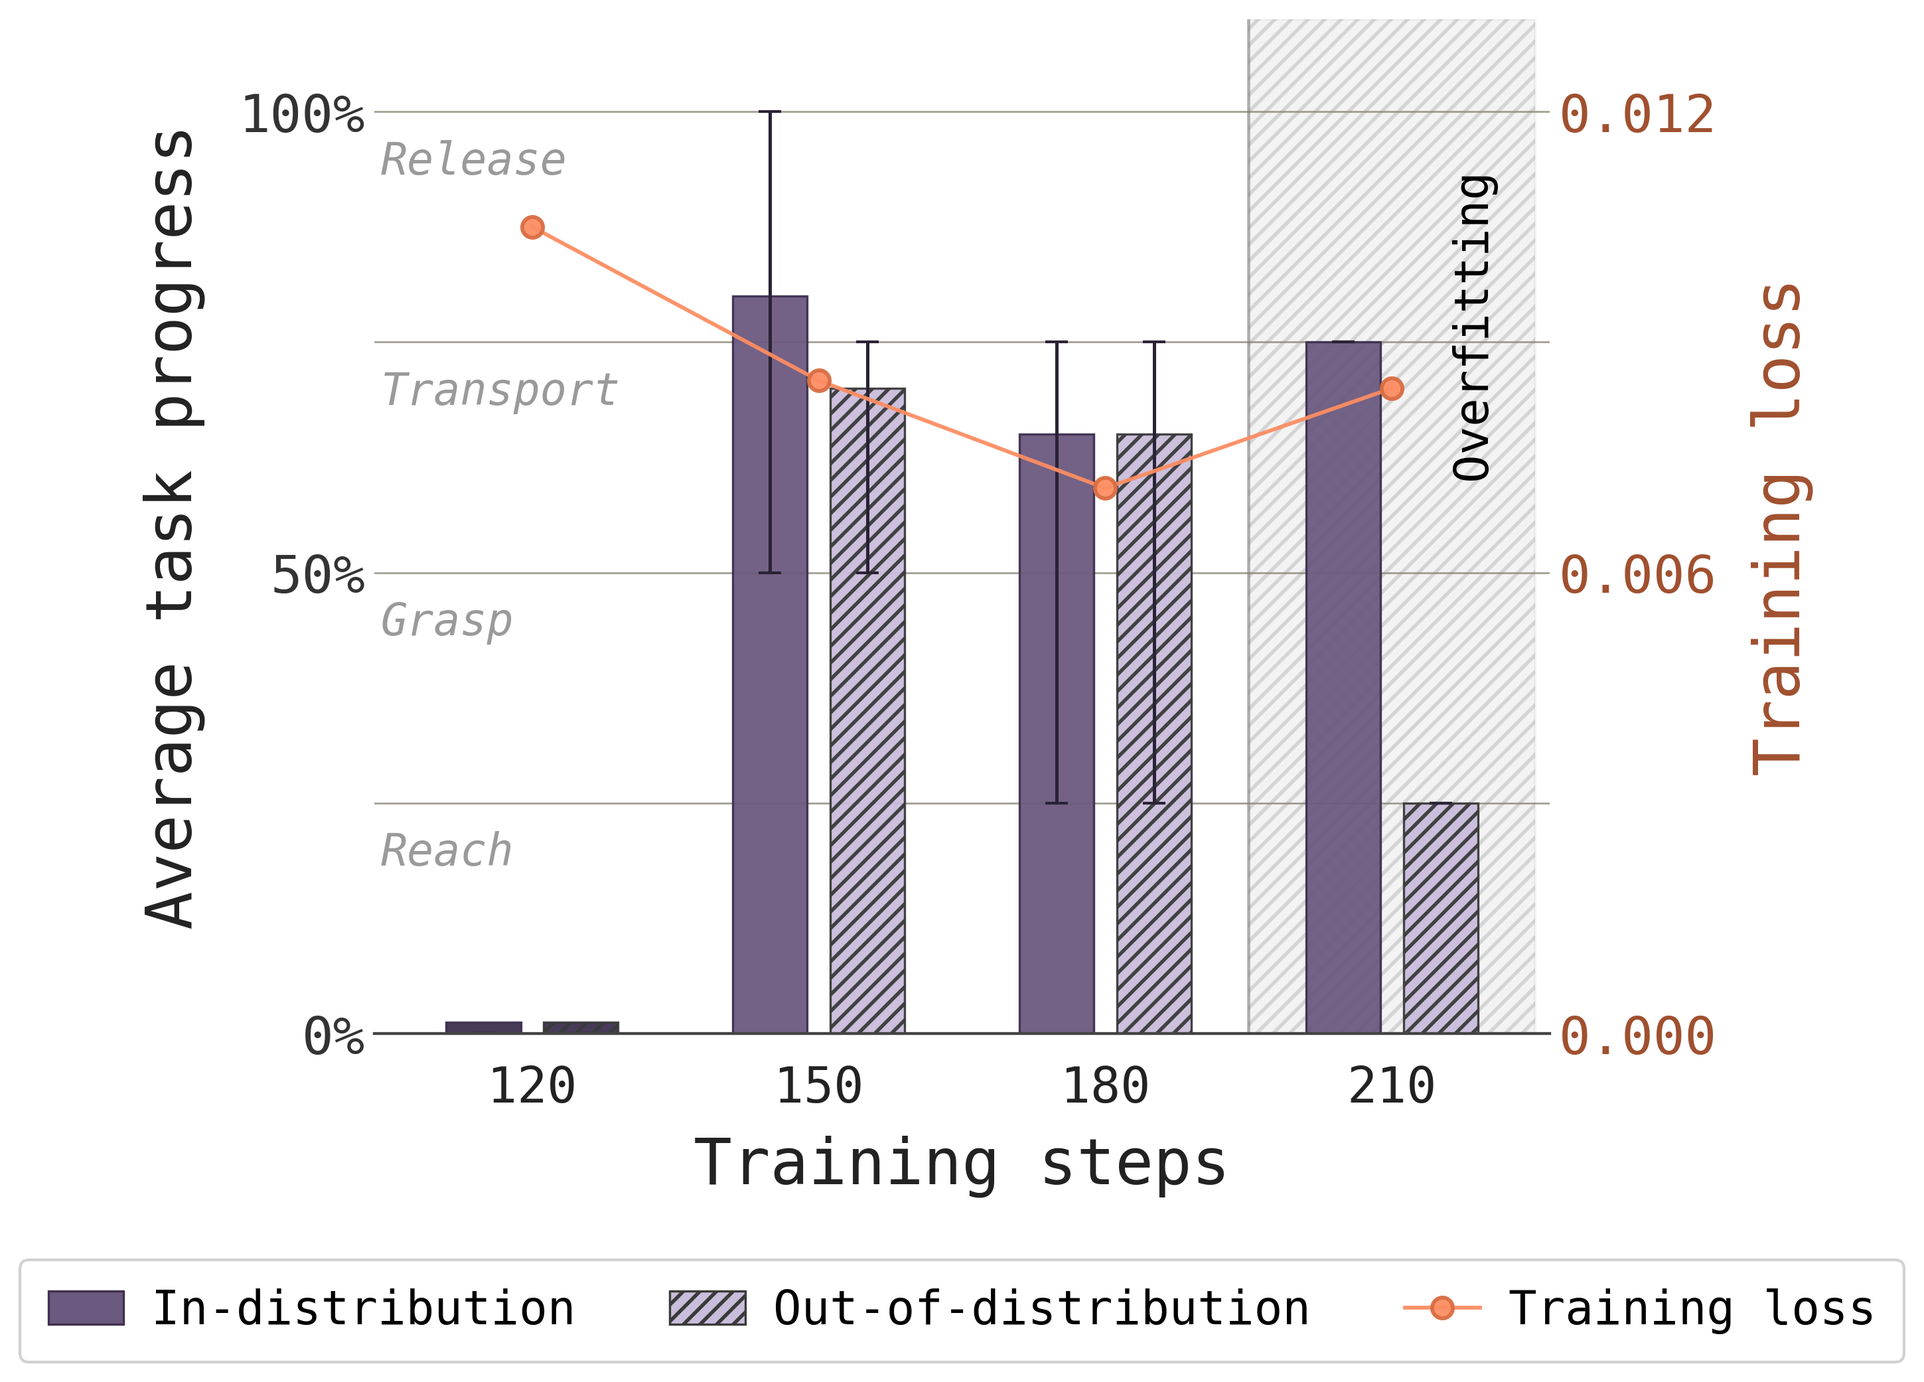
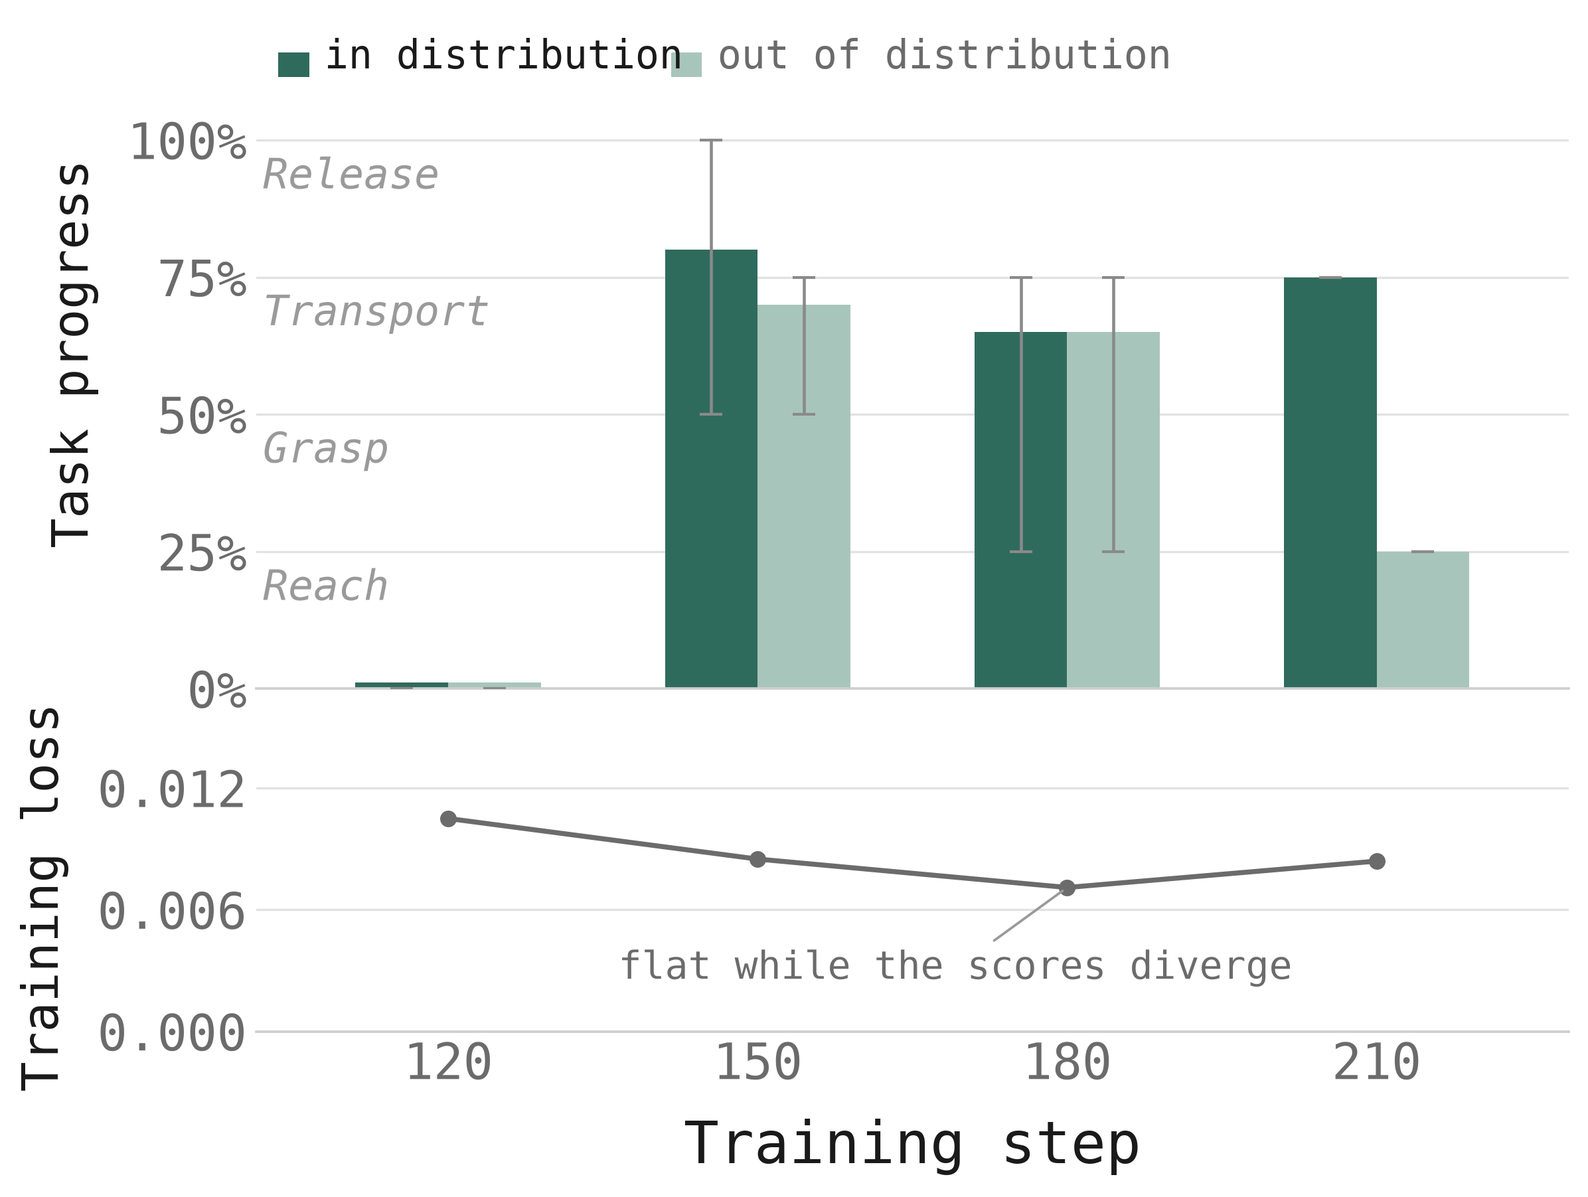
Tufte pass over the data graphics
eval_id_vs_ood had a dual y-axis putting training loss against task progress.
That is the one chart type the section argues against: the whole point is that
the loss does not track the score, and a shared frame invites the correlation
reading. Split into two panels on one x axis, the hatched overfit span replaced
by a plain annotation, and the boxed legend replaced by a key beside the data.

eval_horizon and eval_dataset_size gave every bar its own colour where colour
encoded nothing the x axis did not already say. Now gray for context and the
single article accent for the focal bar, so the eye goes to the result rather
than around the rainbow.

The issue-topic chart loses its detached legend: the three categories are
named above the segments they name, in those segments' colours, and the
percentage scale moves to the bottom. Also drops the outline on the 'nobody'
segment and lightens gridlines throughout.

Chart data is unchanged and still comes from ur5/docs/final_evaluations.md;
the regeneration script is checked in as ur5/charts_tufte.py.

diff --git a/index.html b/index.html
@@ -203,13 +203,16 @@ figure svg{display:block;width:100%;height:auto;overflow:visible;color:var(--ink
 .cline.accent{stroke:var(--accent);stroke-width:2.4}
 .cdot{fill:var(--accent)}
 .cl{font-family:var(--mono);font-size:9.5px;fill:currentColor;opacity:.62}
+.lbl-staff{fill:var(--accent);opacity:1;font-weight:700}
+.lbl-users{fill:#5c7a9c;opacity:1;font-weight:700}
+.lbl-none{fill:#8f8f8f;opacity:1;font-weight:700}
 .cl.faint{opacity:.4}
 .cv{font-family:var(--mono);font-size:10px;font-weight:600;fill:currentColor}
 .cv.accent{fill:var(--accent)}
 .ct{font-family:var(--mono);font-size:10px;font-weight:700;fill:currentColor;letter-spacing:.06em}
 .seg-staff{fill:var(--accent)}
 .seg-users{fill:#93a7c4}
-.seg-none{fill:#e6e6e6;stroke:#d2d2d2;stroke-width:.7}
+.seg-none{fill:#ececec}
 @media (max-width:34rem){.smallmult{grid-template-columns:1fr;gap:1.6rem}}
 
 
@@ -523,7 +526,7 @@ footer cite{font-style:italic}
     <p>The more interesting column is the middle one. On openpi, <b>32% of issues are answered only by other users</b>, with nobody from the project involved. I read 128 answered threads closely, staff-answered and user-answered alike, and graded the best reply in each: 55% contained a concrete fix or explanation that would plausibly unblock the reporter, another 29% a workaround or useful pointer. Independent users supplied that best answer in roughly 2 cases out of 5.</p>
 
     <figure class="wide">
-      <svg class="chartanim" viewBox="0 0 680 442" role="img" aria-label="Who answers an openpi issue, by topic"><line x1="311.5" y1="24" x2="311.5" y2="402" class="cgrid"/><text x="311.5" y="16" class="cl" text-anchor="middle">25%</text><line x1="417.0" y1="24" x2="417.0" y2="402" class="cgrid"/><text x="417.0" y="16" class="cl" text-anchor="middle">50%</text><line x1="522.5" y1="24" x2="522.5" y2="402" class="cgrid"/><text x="522.5" y="16" class="cl" text-anchor="middle">75%</text><line x1="628.0" y1="24" x2="628.0" y2="402" class="cgrid"/><text x="628.0" y="16" class="cl" text-anchor="middle">100%</text><text x="197" y="54" class="cl" text-anchor="end">Robot integration</text><g class="growx" style="--d:0.000s"><rect x="206.0" y="45" width="253.2" height="13" class="seg-staff"/><rect x="459.2" y="45" width="96.5" height="13" class="seg-users"/><rect x="555.7" y="45" width="72.3" height="13" class="seg-none"/></g><text x="676" y="55" class="cl faint" text-anchor="end">n=35</text><text x="197" y="88" class="cl" text-anchor="end">Training errors</text><g class="growx" style="--d:0.055s"><rect x="206.0" y="79" width="162.3" height="13" class="seg-staff"/><rect x="368.3" y="79" width="183.9" height="13" class="seg-users"/><rect x="552.3" y="79" width="75.7" height="13" class="seg-none"/></g><text x="676" y="89" class="cl faint" text-anchor="end">n=39</text><text x="197" y="122" class="cl" text-anchor="end">Deployment errors</text><g class="growx" style="--d:0.110s"><rect x="206.0" y="113" width="223.4" height="13" class="seg-staff"/><rect x="429.4" y="113" width="111.7" height="13" class="seg-users"/><rect x="541.1" y="113" width="86.9" height="13" class="seg-none"/></g><text x="676" y="123" class="cl faint" text-anchor="end">n=34</text><text x="197" y="156" class="cl" text-anchor="end">Data conversion</text><g class="growx" style="--d:0.165s"><rect x="206.0" y="147" width="135.4" height="13" class="seg-staff"/><rect x="341.4" y="147" width="199.1" height="13" class="seg-users"/><rect x="540.4" y="147" width="87.6" height="13" class="seg-none"/></g><text x="676" y="157" class="cl faint" text-anchor="end">n=53</text><text x="197" y="190" class="cl" text-anchor="end">Model behaviour</text><g class="growx" style="--d:0.220s"><rect x="206.0" y="181" width="154.4" height="13" class="seg-staff"/><rect x="360.4" y="181" width="175.0" height="13" class="seg-users"/><rect x="535.4" y="181" width="92.6" height="13" class="seg-none"/></g><text x="676" y="191" class="cl faint" text-anchor="end">n=41</text><text x="197" y="224" class="cl" text-anchor="end">JAX/PyTorch convert</text><g class="growx" style="--d:0.275s"><rect x="206.0" y="215" width="32.5" height="13" class="seg-staff"/><rect x="238.5" y="215" width="292.2" height="13" class="seg-users"/><rect x="530.6" y="215" width="97.4" height="13" class="seg-none"/></g><text x="676" y="225" class="cl faint" text-anchor="end">n=13</text><text x="197" y="258" class="cl" text-anchor="end">Install / environment</text><g class="growx" style="--d:0.330s"><rect x="206.0" y="249" width="178.2" height="13" class="seg-staff"/><rect x="384.2" y="249" width="131.3" height="13" class="seg-users"/><rect x="515.5" y="249" width="112.5" height="13" class="seg-none"/></g><text x="676" y="259" class="cl faint" text-anchor="end">n=45</text><text x="197" y="292" class="cl" text-anchor="end">Training how-to</text><g class="growx" style="--d:0.385s"><rect x="206.0" y="283" width="194.8" height="13" class="seg-staff"/><rect x="400.8" y="283" width="113.6" height="13" class="seg-users"/><rect x="514.4" y="283" width="113.6" height="13" class="seg-none"/></g><text x="676" y="293" class="cl faint" text-anchor="end">n=52</text><text x="197" y="326" class="cl" text-anchor="end">Checkpoint release</text><g class="growx" style="--d:0.440s"><rect x="206.0" y="317" width="257.9" height="13" class="seg-staff"/><rect x="463.9" y="317" width="46.9" height="13" class="seg-users"/><rect x="510.8" y="317" width="117.2" height="13" class="seg-none"/></g><text x="676" y="327" class="cl faint" text-anchor="end">n=18</text><text x="197" y="360" class="cl" text-anchor="end">Conceptual question</text><g class="growx" style="--d:0.495s"><rect x="206.0" y="351" width="135.0" height="13" class="seg-staff"/><rect x="341.0" y="351" width="126.6" height="13" class="seg-users"/><rect x="467.6" y="351" width="160.4" height="13" class="seg-none"/></g><text x="676" y="361" class="cl faint" text-anchor="end">n=50</text><text x="197" y="394" class="cl" text-anchor="end">Feature request</text><g class="growx" style="--d:0.550s"><rect x="206.0" y="385" width="28.1" height="13" class="seg-staff"/><rect x="234.1" y="385" width="140.7" height="13" class="seg-users"/><rect x="374.8" y="385" width="253.2" height="13" class="seg-none"/></g><text x="676" y="395" class="cl faint" text-anchor="end">n=15</text><rect x="14" y="415" width="11" height="11" class="seg-staff"/><text x="30" y="424" class="cl">from the project</text><rect x="250" y="415" width="11" height="11" class="seg-users"/><text x="266" y="424" class="cl">only other users</text><rect x="486" y="415" width="11" height="11" class="seg-none"/><text x="502" y="424" class="cl">nobody</text></svg>
+      <svg class="chartanim" viewBox="0 0 680 430" role="img" aria-label="Who answers an openpi issue, by topic"><line x1="311.5" y1="22" x2="311.5" y2="398" class="cgrid"/><text x="311.5" y="416" class="cl" text-anchor="middle">25%</text><line x1="417.0" y1="22" x2="417.0" y2="398" class="cgrid"/><text x="417.0" y="416" class="cl" text-anchor="middle">50%</text><line x1="522.5" y1="22" x2="522.5" y2="398" class="cgrid"/><text x="522.5" y="416" class="cl" text-anchor="middle">75%</text><line x1="628.0" y1="22" x2="628.0" y2="398" class="cgrid"/><text x="628.0" y="416" class="cl" text-anchor="middle">100%</text><text x="332.6" y="16" class="cl lbl-staff" text-anchor="middle">the project</text><text x="507.4" y="16" class="cl lbl-users" text-anchor="middle">other users</text><text x="591.8" y="16" class="cl lbl-none" text-anchor="middle">nobody</text><text x="197" y="50" class="cl" text-anchor="end">Robot integration</text><g class="growx" style="--d:0.000s"><rect x="206.0" y="41" width="253.2" height="13" class="seg-staff"/><rect x="459.2" y="41" width="96.5" height="13" class="seg-users"/><rect x="555.7" y="41" width="72.3" height="13" class="seg-none"/></g><text x="676" y="51" class="cl faint" text-anchor="end">n=35</text><text x="197" y="84" class="cl" text-anchor="end">Training errors</text><g class="growx" style="--d:0.055s"><rect x="206.0" y="75" width="162.3" height="13" class="seg-staff"/><rect x="368.3" y="75" width="183.9" height="13" class="seg-users"/><rect x="552.3" y="75" width="75.7" height="13" class="seg-none"/></g><text x="676" y="85" class="cl faint" text-anchor="end">n=39</text><text x="197" y="118" class="cl" text-anchor="end">Deployment errors</text><g class="growx" style="--d:0.110s"><rect x="206.0" y="109" width="223.4" height="13" class="seg-staff"/><rect x="429.4" y="109" width="111.7" height="13" class="seg-users"/><rect x="541.1" y="109" width="86.9" height="13" class="seg-none"/></g><text x="676" y="119" class="cl faint" text-anchor="end">n=34</text><text x="197" y="152" class="cl" text-anchor="end">Data conversion</text><g class="growx" style="--d:0.165s"><rect x="206.0" y="143" width="135.4" height="13" class="seg-staff"/><rect x="341.4" y="143" width="199.1" height="13" class="seg-users"/><rect x="540.4" y="143" width="87.6" height="13" class="seg-none"/></g><text x="676" y="153" class="cl faint" text-anchor="end">n=53</text><text x="197" y="186" class="cl" text-anchor="end">Model behaviour</text><g class="growx" style="--d:0.220s"><rect x="206.0" y="177" width="154.4" height="13" class="seg-staff"/><rect x="360.4" y="177" width="175.0" height="13" class="seg-users"/><rect x="535.4" y="177" width="92.6" height="13" class="seg-none"/></g><text x="676" y="187" class="cl faint" text-anchor="end">n=41</text><text x="197" y="220" class="cl" text-anchor="end">JAX/PyTorch convert</text><g class="growx" style="--d:0.275s"><rect x="206.0" y="211" width="32.5" height="13" class="seg-staff"/><rect x="238.5" y="211" width="292.2" height="13" class="seg-users"/><rect x="530.6" y="211" width="97.4" height="13" class="seg-none"/></g><text x="676" y="221" class="cl faint" text-anchor="end">n=13</text><text x="197" y="254" class="cl" text-anchor="end">Install / environment</text><g class="growx" style="--d:0.330s"><rect x="206.0" y="245" width="178.2" height="13" class="seg-staff"/><rect x="384.2" y="245" width="131.3" height="13" class="seg-users"/><rect x="515.5" y="245" width="112.5" height="13" class="seg-none"/></g><text x="676" y="255" class="cl faint" text-anchor="end">n=45</text><text x="197" y="288" class="cl" text-anchor="end">Training how-to</text><g class="growx" style="--d:0.385s"><rect x="206.0" y="279" width="194.8" height="13" class="seg-staff"/><rect x="400.8" y="279" width="113.6" height="13" class="seg-users"/><rect x="514.4" y="279" width="113.6" height="13" class="seg-none"/></g><text x="676" y="289" class="cl faint" text-anchor="end">n=52</text><text x="197" y="322" class="cl" text-anchor="end">Checkpoint release</text><g class="growx" style="--d:0.440s"><rect x="206.0" y="313" width="257.9" height="13" class="seg-staff"/><rect x="463.9" y="313" width="46.9" height="13" class="seg-users"/><rect x="510.8" y="313" width="117.2" height="13" class="seg-none"/></g><text x="676" y="323" class="cl faint" text-anchor="end">n=18</text><text x="197" y="356" class="cl" text-anchor="end">Conceptual question</text><g class="growx" style="--d:0.495s"><rect x="206.0" y="347" width="135.0" height="13" class="seg-staff"/><rect x="341.0" y="347" width="126.6" height="13" class="seg-users"/><rect x="467.6" y="347" width="160.4" height="13" class="seg-none"/></g><text x="676" y="357" class="cl faint" text-anchor="end">n=50</text><text x="197" y="390" class="cl" text-anchor="end">Feature request</text><g class="growx" style="--d:0.550s"><rect x="206.0" y="381" width="28.1" height="13" class="seg-staff"/><rect x="234.1" y="381" width="140.7" height="13" class="seg-users"/><rect x="374.8" y="381" width="253.2" height="13" class="seg-none"/></g><text x="676" y="391" class="cl faint" text-anchor="end">n=15</text></svg>
       <figcaption><b>Issues with a reproducible error get answered. Conceptual questions and feature requests do not.</b> Classified by reading each issue; 395 of 490 could be classified.</figcaption>
     </figure>
 

diff --git a/ur5/charts_tufte.py b/ur5/charts_tufte.py
@@ -1,0 +1,161 @@
+"""Tufte pass over the four evaluation charts.
+
+Data is copied verbatim from the recovered eval_charts.ipynb, which sources it
+from ur5/docs/final_evaluations.md. No value is changed here; only the display.
+
+What changes, and why:
+  - decorative per-bar palettes -> gray for context, one accent for the focal bar
+  - dual y-axis on the ID/OOD chart -> two stacked panels sharing an x axis
+  - hatched fills (moire) -> flat tints
+  - boxed legends away from the data -> labels sitting on the data
+  - heavy olive gridlines -> faint gray, behind everything
+  - bar outlines -> none
+"""
+import matplotlib
+matplotlib.use('Agg')
+import matplotlib.pyplot as plt
+import matplotlib.ticker as mticker
+import numpy as np
+
+OUT = '/home/lps/openpi/ur5/docs/figures'
+
+INK      = '#1a1a1a'
+MUTED    = '#6b6b6b'
+QUIET    = '#9a9a9a'
+GRID     = '#e2e2e2'
+CONTEXT  = '#c4c4c4'   # bars that are not the point
+ACCENT   = '#2f6b5c'   # the article's single accent
+ACCENT_L = '#a8c5bc'   # accent, de-emphasised (second series)
+
+plt.rcParams.update({
+    'font.family': 'monospace',
+    'font.monospace': ['DejaVu Sans Mono', 'Courier New'],
+    'font.size': 18, 'axes.labelsize': 21,
+    'xtick.labelsize': 18, 'ytick.labelsize': 18,
+    'figure.dpi': 150, 'savefig.dpi': 300,
+    'axes.edgecolor': '#cfcfcf', 'axes.linewidth': 0.9,
+    'xtick.color': MUTED, 'ytick.color': MUTED, 'axes.labelcolor': INK,
+    'figure.facecolor': 'white', 'axes.facecolor': 'white',
+    'savefig.facecolor': 'white',
+})
+
+STAGES = ['Reach', 'Grasp', 'Transport', 'Release']
+
+
+def frame(ax, gridlines=True):
+    """Range frame: keep the baseline, drop the box."""
+    for s in ('top', 'left', 'right'):
+        ax.spines[s].set_visible(False)
+    ax.set_axisbelow(True)
+    ax.tick_params(axis='both', length=0)
+    if gridlines:
+        ax.grid(axis='y', color=GRID, linewidth=0.8, zorder=0)
+
+
+def stage_bands(ax, ys=(0.22, 0.47, 0.72, 0.97)):
+    t = ax.get_yaxis_transform()
+    for name, y in zip(STAGES, ys):
+        ax.text(0.005, y, name, ha='left', va='top', transform=t,
+                fontsize=15, color=QUIET, fontstyle='italic', zorder=0)
+
+
+def bars(ax, x, totals, lo, hi, focal, width=0.32, labels=True):
+    for i, t in enumerate(totals):
+        c = ACCENT if focal[i] else CONTEXT
+        ax.bar(x[i], t if t > 0 else 0.012, width, color=c, linewidth=0, zorder=2)
+    ax.errorbar(x, totals, yerr=[np.array(totals) - np.array(lo),
+                                 np.array(hi) - np.array(totals)],
+                fmt='none', ecolor='#8a8a8a', capsize=4, lw=1.1, zorder=5)
+    if labels:
+        for xi, t, l, hh in zip(x, totals, lo, hi):
+            off = width * 0.1 if hh - l > 0 else 0
+            ax.text(xi + off, t + 0.012, f'{int(round(t*100))}%',
+                    ha='left' if hh - l > 0 else 'center', va='bottom',
+                    fontsize=16, color=INK if t == max(totals) else MUTED)
+
+
+# ---------------------------------------------------------------- horizon
+horizon = [3, 6, 9, 12, 15]
+h_tot = [0.25, 0.80, 0.50, 0.25, 0.25]
+h_min = [0.25, 0.50, 0.25, 0.25, 0.25]
+h_max = [0.25, 1.00, 1.00, 0.25, 0.25]
+
+fig, ax = plt.subplots(figsize=(8.5, 5.4))
+x = np.arange(len(horizon)) * 0.65
+bars(ax, x, h_tot, h_min, h_max, [h == 6 for h in horizon])
+stage_bands(ax)
+ax.set_xlabel('Actions executed per inference call', labelpad=10)
+ax.set_ylabel('Average task progress', labelpad=12)
+ax.set_xticks(x); ax.set_xticklabels(horizon)
+ax.set_xlim(-0.62, x[-1] + 0.36); ax.set_ylim(0, 1.08)
+ax.yaxis.set_major_locator(mticker.MultipleLocator(0.25))
+ax.yaxis.set_major_formatter(mticker.PercentFormatter(xmax=1.0, decimals=0))
+frame(ax)
+plt.tight_layout(); plt.savefig(f'{OUT}/eval_horizon.png', bbox_inches='tight'); plt.close()
+
+# ----------------------------------------------------------- dataset size
+sizes = [0, 1, 10, 20, 30, 50]
+d_tot = [0.00, 0.00, 0.80, 0.25, 0.25, 0.25]
+d_min = [0.00, 0.00, 0.50, 0.25, 0.25, 0.25]
+d_max = [0.00, 0.00, 1.00, 0.25, 0.25, 0.25]
+
+fig, ax = plt.subplots(figsize=(8.5, 5.4))
+x = np.arange(len(sizes)) * 0.65
+bars(ax, x, d_tot, d_min, d_max, [s == 10 for s in sizes])
+stage_bands(ax)
+ax.set_xlabel('Dataset size (episodes)', labelpad=10)
+ax.set_ylabel('Average task progress', labelpad=12)
+ax.set_xticks(x); ax.set_xticklabels(sizes)
+ax.set_xlim(-0.42, x[-1] + 0.36); ax.set_ylim(0, 1.08)
+ax.yaxis.set_major_locator(mticker.MultipleLocator(0.25))
+ax.yaxis.set_major_formatter(mticker.PercentFormatter(xmax=1.0, decimals=0))
+frame(ax)
+plt.tight_layout(); plt.savefig(f'{OUT}/eval_dataset_size.png', bbox_inches='tight'); plt.close()
+
+# ------------------------------------------------------ ID vs OOD + loss
+# Was a dual-axis chart. Split into two panels on a shared x axis: the whole
+# point of the section is that the loss does NOT track the score, and a dual
+# axis invites exactly the correlation the text is arguing against.
+steps = [120, 150, 180, 210]
+id_s  = [0.00, 0.80, 0.65, 0.75]
+ood_s = [0.00, 0.70, 0.65, 0.25]
+loss  = [0.0105, 0.0085, 0.0071, 0.0084]
+id_lo, id_hi   = [0.00, 0.50, 0.25, 0.75], [0.00, 1.00, 0.75, 0.75]
+ood_lo, ood_hi = [0.00, 0.50, 0.25, 0.25], [0.00, 0.75, 0.75, 0.25]
+
+fig, (ax, ax2) = plt.subplots(2, 1, figsize=(8.5, 6.6), sharex=True,
+                              gridspec_kw={'height_ratios': [2.5, 1], 'hspace': 0.16})
+x = np.arange(len(steps)); w = 0.30
+ax.bar(x - w/2, [max(v, 0.012) for v in id_s],  w, color=ACCENT,   linewidth=0, zorder=2)
+ax.bar(x + w/2, [max(v, 0.012) for v in ood_s], w, color=ACCENT_L, linewidth=0, zorder=2)
+ax.errorbar(x - w/2, id_s, yerr=[np.array(id_s)-np.array(id_lo), np.array(id_hi)-np.array(id_s)],
+            fmt='none', ecolor='#8a8a8a', capsize=4, lw=1.1, zorder=5)
+ax.errorbar(x + w/2, ood_s, yerr=[np.array(ood_s)-np.array(ood_lo), np.array(ood_hi)-np.array(ood_s)],
+            fmt='none', ecolor='#8a8a8a', capsize=4, lw=1.1, zorder=5)
+# key sitting just above the data, not a boxed legend off to the side
+ax.add_patch(plt.Rectangle((-0.55, 1.115), 0.10, 0.045, color=ACCENT, lw=0))
+ax.text(-0.40, 1.113, 'in distribution', fontsize=14.5, color=INK, va='bottom')
+ax.add_patch(plt.Rectangle((0.72, 1.115), 0.10, 0.045, color=ACCENT_L, lw=0))
+ax.text(0.87, 1.113, 'out of distribution', fontsize=14.5, color=MUTED, va='bottom')
+stage_bands(ax)
+ax.set_ylabel('Task progress', labelpad=10, fontsize=18)
+ax.set_ylim(0, 1.22)
+ax.yaxis.set_major_locator(mticker.MultipleLocator(0.25))
+ax.yaxis.set_major_formatter(mticker.PercentFormatter(xmax=1.0, decimals=0))
+frame(ax)
+
+ax2.plot(x, loss, color=MUTED, lw=1.8, marker='o', ms=5, zorder=3)
+ax2.set_ylabel('Training loss', labelpad=10, fontsize=18)
+ax2.set_ylim(0, 0.0132)
+ax2.yaxis.set_major_locator(mticker.MultipleLocator(0.006))
+ax2.yaxis.set_major_formatter(mticker.FormatStrFormatter('%.3f'))
+ax2.set_xticks(x); ax2.set_xticklabels(steps)
+ax2.set_xlabel('Training step', labelpad=10)
+ax2.set_xlim(-0.62, x[-1] + 0.62)
+frame(ax2)
+ax2.annotate('flat while the scores diverge', xy=(2.0, 0.0071), xytext=(0.55, 0.0026),
+             fontsize=14, color=MUTED,
+             arrowprops=dict(arrowstyle='-', color=QUIET, lw=0.9))
+plt.savefig(f'{OUT}/eval_id_vs_ood.png', bbox_inches='tight'); plt.close()
+
+print('regenerated 3 charts')
